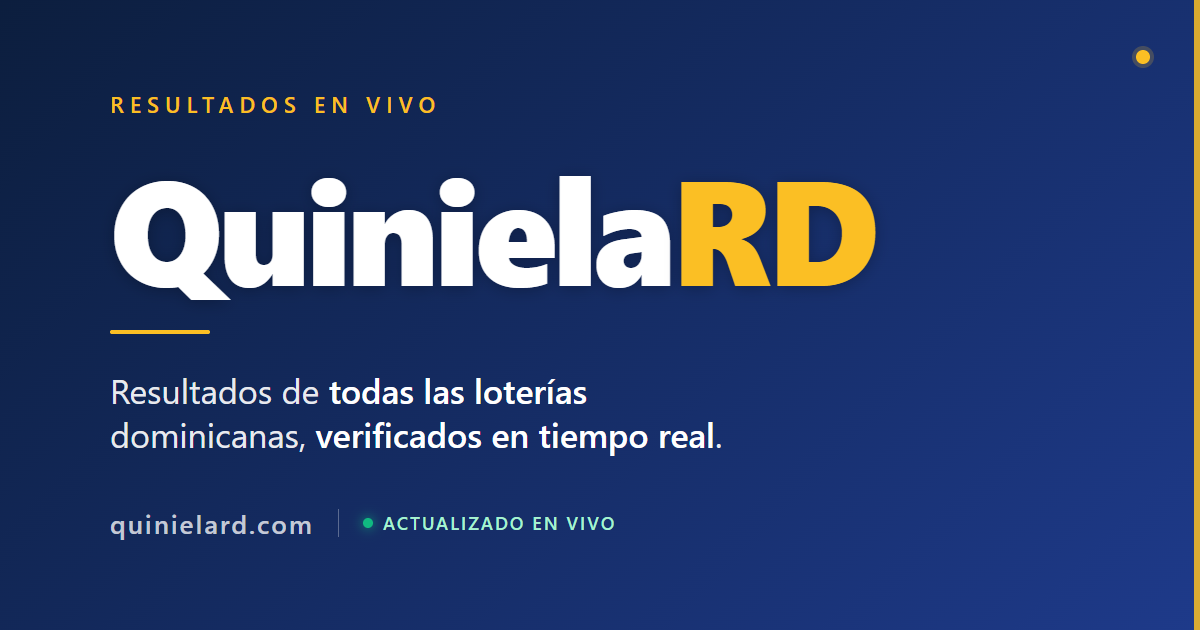
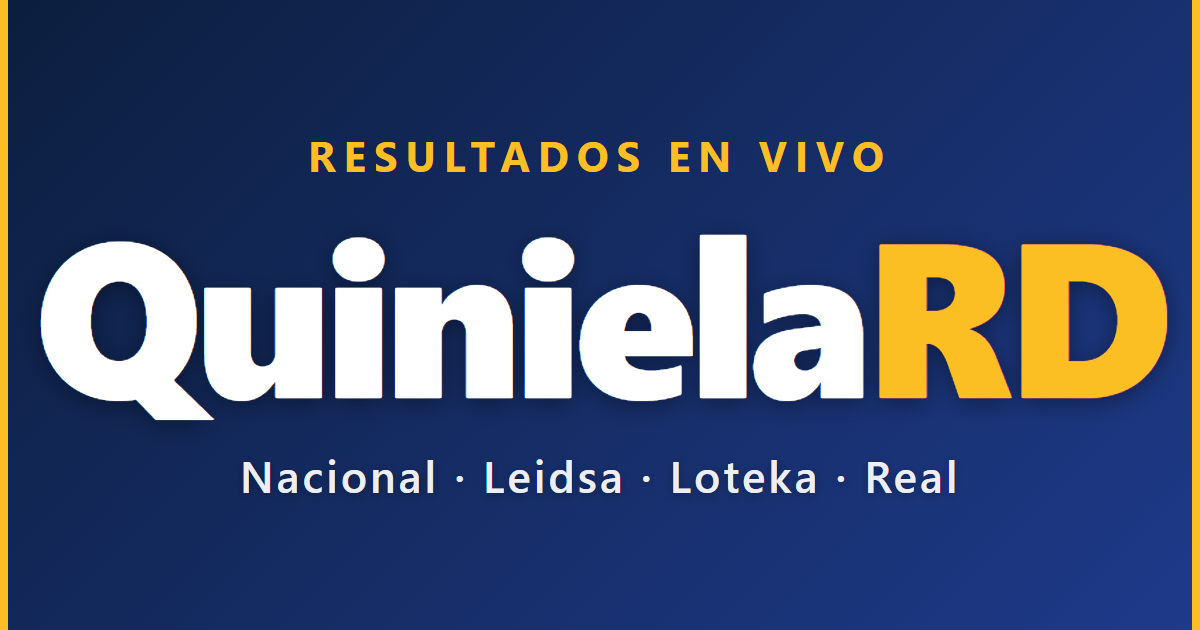
Optimizar og-image para WhatsApp (linea de loterias mas grande)
Cambios:
- Linea 'Nacional . Leidsa . Loteka . Real' aumentada de 26px a 44px
- Font-weight 500 -> 600
- Letter-spacing aumentado para elegancia tipografica
- Sombra sutil para mejor contraste
- Margin-top para separar mejor del titulo

Resultado: imagen ahora legible incluso a 25% (tamano WhatsApp).
Los 3 elementos (eyebrow, titulo, loterias) se distinguen bien
cuando el link se comparte en celulares.

diff --git a/tools/og-image.html b/tools/og-image.html
@@ -15,154 +15,88 @@
   }
 
   /* ═════════════════════════════════════════════════════
-     CONTENEDOR PRINCIPAL — Estilo MINIMALISTA PROFESIONAL
-     Inspirado en Bloomberg, NYT, Apple
+     CONTENEDOR PRINCIPAL — MINIMALISTA AGRESIVO
+     Todo centrado, texto gigante, 3 elementos únicos.
+     Optimizado para verse nítido en WhatsApp (pequeño).
      ═════════════════════════════════════════════════════ */
   .og-image {
     width: 1200px;
     height: 630px;
-    /* Gradiente azul profundo sutil */
     background: linear-gradient(135deg, #0c1e3e 0%, #1e3a8a 100%);
     display: flex;
     flex-direction: column;
     justify-content: center;
-    padding: 0 110px;
+    align-items: center;
+    padding: 0 60px;
+    text-align: center;
     color: white;
     position: relative;
     overflow: hidden;
   }
 
-  /* Acento decorativo sutil — líneas verticales amarillas a la derecha */
+  /* Barras laterales amarillas (acentos editoriales) */
   .og-image::before {
     content: '';
     position: absolute;
     top: 0;
-    right: 0;
-    width: 6px;
+    left: 0;
+    width: 8px;
     height: 100%;
-    background: #fbbf24;  /* amarillo dorado */
-    opacity: 0.85;
+    background: #fbbf24;
   }
-
-  /* Punto decorativo amarillo en la esquina superior derecha */
   .og-image::after {
     content: '';
     position: absolute;
-    top: 50px;
-    right: 50px;
-    width: 14px;
-    height: 14px;
-    border-radius: 50%;
+    top: 0;
+    right: 0;
+    width: 8px;
+    height: 100%;
     background: #fbbf24;
-    box-shadow: 0 0 0 4px rgba(251, 191, 36, 0.2);
   }
 
   /* ═════════════════════════════════════════════════════
-     EYEBROW (etiqueta pequeña arriba del título)
-     "LOTERÍA DOMINICANA" — establece el contexto
+     EYEBROW — "RESULTADOS EN VIVO" en amarillo grande
+     Se lee incluso cuando la imagen está pequeña.
      ═════════════════════════════════════════════════════ */
   .eyebrow {
-    font-size: 22px;
-    font-weight: 600;
-    color: #fbbf24;  /* amarillo dorado */
-    letter-spacing: 6px;
-    margin-bottom: 36px;
+    font-size: 42px;
+    font-weight: 700;
+    color: #fbbf24;
+    letter-spacing: 8px;
+    margin-bottom: 25px;
     text-transform: uppercase;
   }
 
   /* ═════════════════════════════════════════════════════
-     TÍTULO PRINCIPAL — Protagonista de la composición
-     Tipografía grande, condensada, con peso
+     TÍTULO PRINCIPAL — "QuinielaRD" GIGANTE (220px)
+     Protagonista absoluto. Se lee desde lejos.
      ═════════════════════════════════════════════════════ */
   .title {
-    font-size: 148px;
-    font-weight: 800;
-    letter-spacing: -5px;
-    line-height: 0.95;
-    margin-bottom: 34px;
-    /* Leve sombra para mejor contraste */
-    text-shadow: 0 2px 16px rgba(0, 0, 0, 0.25);
+    font-size: 220px;
+    font-weight: 900;
+    letter-spacing: -8px;
+    line-height: 0.9;
+    margin-bottom: 30px;
+    text-shadow: 0 4px 24px rgba(0, 0, 0, 0.4);
   }
 
-  /* El "RD" en amarillo dorado — identidad dominicana */
+  /* "RD" en amarillo dorado (identidad dominicana) */
   .title-rd {
     color: #fbbf24;
   }
 
   /* ═════════════════════════════════════════════════════
-     DIVIDER — Línea decorativa que separa título y subtítulo
-     Toque elegante tipo editorial
+     LÍNEA DE LOTERÍAS — Una sola línea que resume el alcance
+     Listado de las loterías principales que cubre el sitio.
      ═════════════════════════════════════════════════════ */
-  .divider {
-    width: 100px;
-    height: 4px;
-    background: #fbbf24;
-    margin-bottom: 34px;
-    border-radius: 2px;
-  }
-
-  /* ═════════════════════════════════════════════════════
-     SUBTÍTULO — Descripción clara del sitio
-     ═════════════════════════════════════════════════════ */
-  .subtitle {
-    font-size: 34px;
-    font-weight: 400;
-    color: rgba(255, 255, 255, 0.9);
-    line-height: 1.3;
-    max-width: 760px;
-    margin-bottom: 50px;
-  }
-
-  /* Texto destacado dentro del subtítulo */
-  .subtitle strong {
+  .lotteries {
+    font-size: 44px;
     font-weight: 600;
-    color: #ffffff;
-  }
-
-  /* ═════════════════════════════════════════════════════
-     FOOTER — URL + badge de "en vivo" (opcional)
-     Layout en fila para economizar espacio vertical
-     ═════════════════════════════════════════════════════ */
-  .footer-row {
-    display: flex;
-    align-items: center;
-    gap: 24px;
-  }
-
-  /* URL del sitio */
-  .url {
-    font-size: 26px;
-    font-weight: 500;
-    color: rgba(255, 255, 255, 0.75);
-    letter-spacing: 2px;
-  }
-
-  /* Separador vertical entre URL y badge */
-  .footer-divider {
-    width: 1px;
-    height: 28px;
-    background: rgba(255, 255, 255, 0.3);
-  }
-
-  /* Badge discreto "EN VIVO" */
-  .live-badge {
-    display: flex;
-    align-items: center;
-    gap: 10px;
-    font-size: 18px;
-    font-weight: 600;
-    color: #a7f3d0;
-    letter-spacing: 2px;
-    text-transform: uppercase;
-  }
-
-  /* Punto verde pulsante */
-  .live-dot {
-    width: 10px;
-    height: 10px;
-    background: #10b981;
-    border-radius: 50%;
-    box-shadow: 0 0 12px #10b981;
+    color: rgba(255, 255, 255, 0.92);
+    letter-spacing: 3px;
+    margin-top: 10px;
+    /* Sombra sutil para mejor contraste */
+    text-shadow: 0 2px 8px rgba(0, 0, 0, 0.3);
   }
 </style>
 </head>
@@ -170,30 +104,14 @@
 
 <div class="og-image">
 
-  <!-- Eyebrow: establece el contexto antes del título principal -->
+  <!-- Eyebrow: contexto inmediato, bien visible -->
   <div class="eyebrow">Resultados en vivo</div>
 
-  <!-- Título principal: el protagonista absoluto -->
+  <!-- Título principal GIGANTE: el protagonista absoluto -->
   <div class="title">Quiniela<span class="title-rd">RD</span></div>
 
-  <!-- Línea decorativa amarilla: toque editorial -->
-  <div class="divider"></div>
-
-  <!-- Subtítulo: propuesta de valor clara y directa -->
-  <div class="subtitle">
-    Resultados de <strong>todas las loterías</strong><br>
-    dominicanas, <strong>verificados en tiempo real</strong>.
-  </div>
-
-  <!-- Footer con URL + indicador de "en vivo" -->
-  <div class="footer-row">
-    <span class="url">quinielard.com</span>
-    <div class="footer-divider"></div>
-    <div class="live-badge">
-      <div class="live-dot"></div>
-      <span>Actualizado en vivo</span>
-    </div>
-  </div>
+  <!-- Línea única con las loterías principales -->
+  <div class="lotteries">Nacional · Leidsa · Loteka · Real</div>
 
 </div>
 
